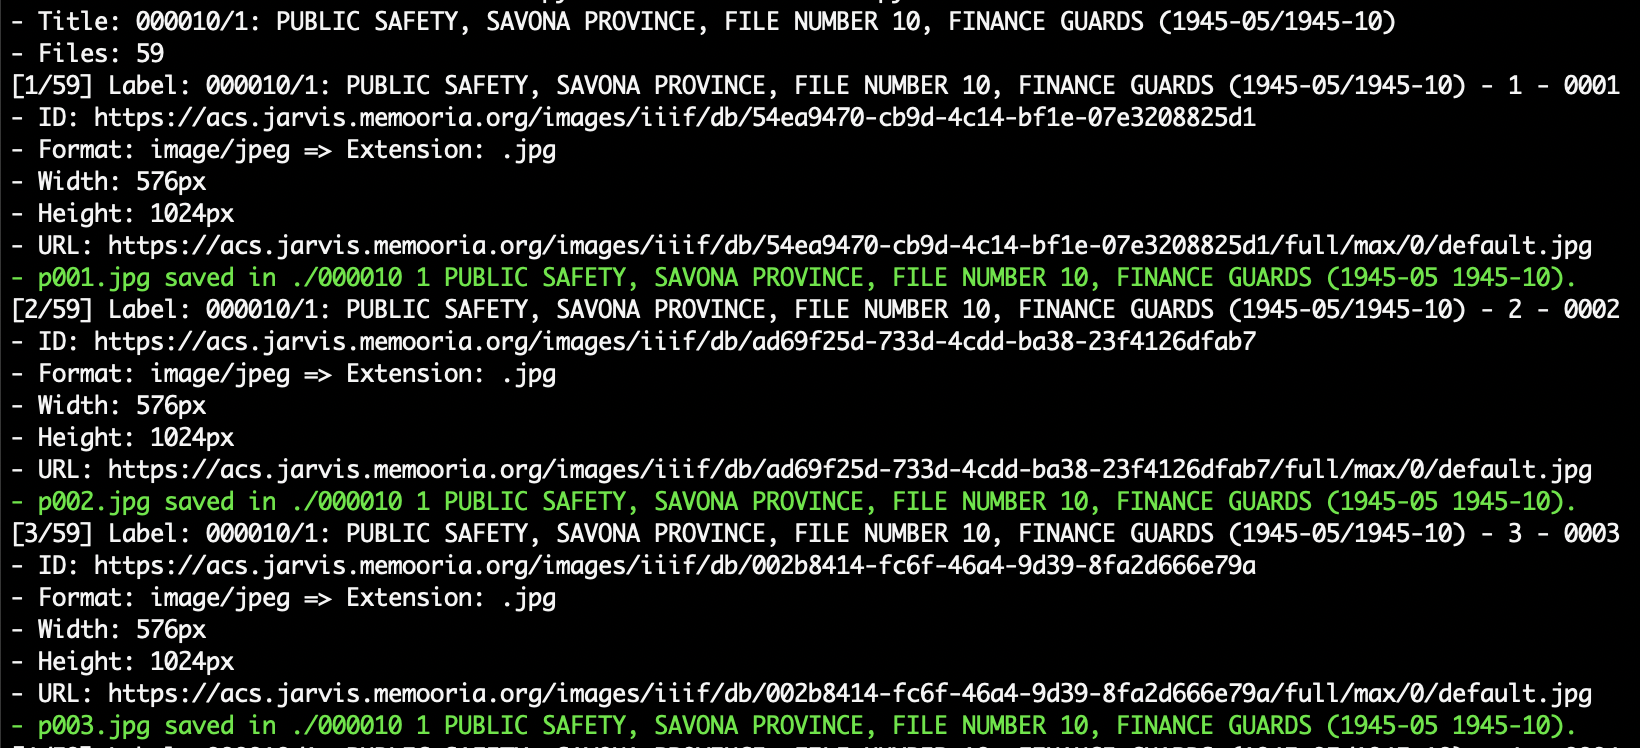
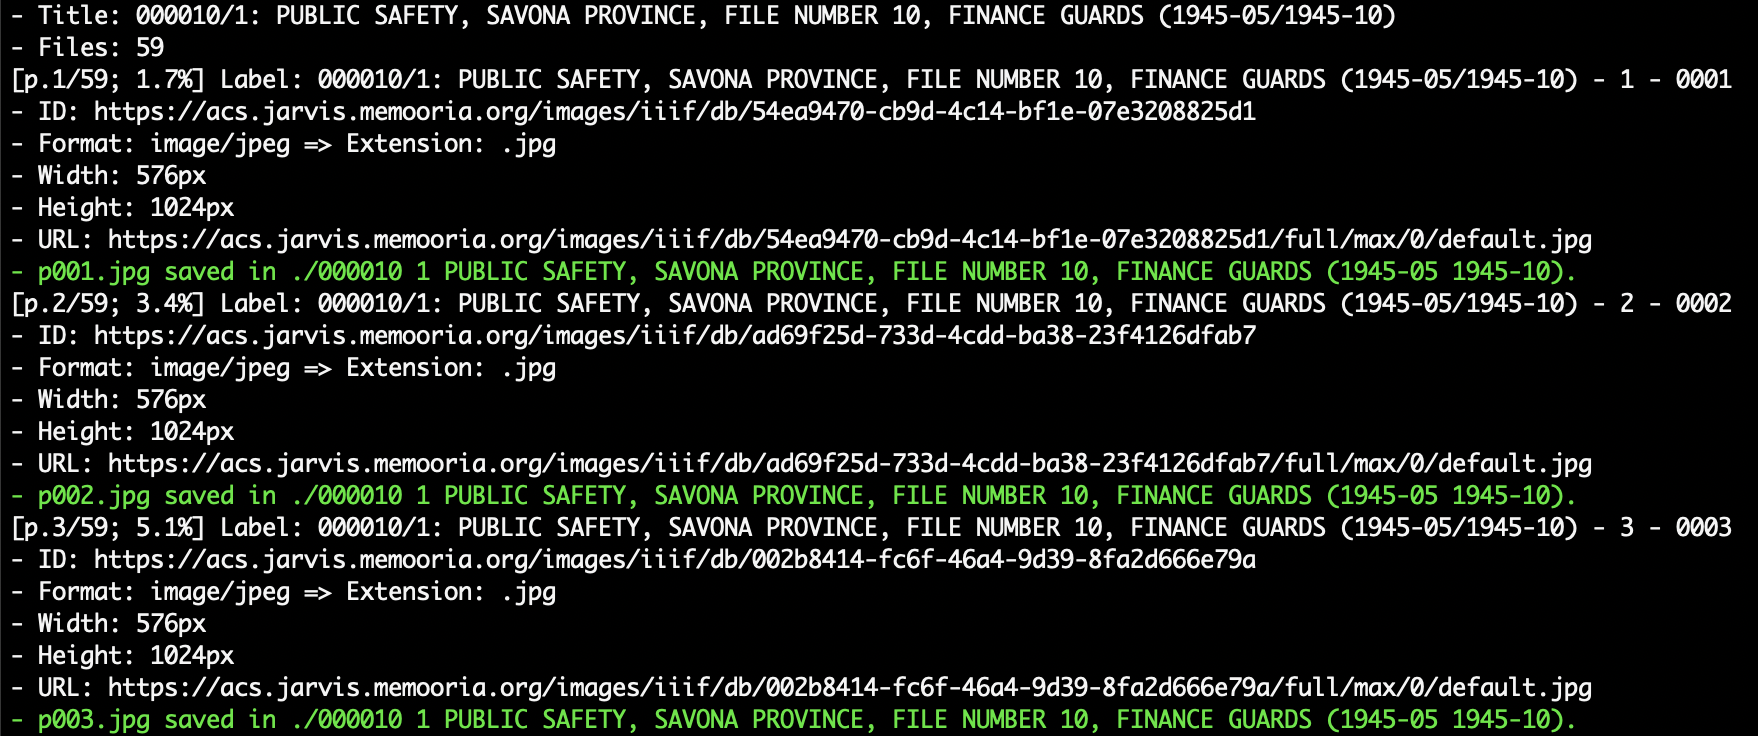
Added page range feature

Changed region(s): [[0.0, 0.0, 0.9951, 1.0]]

diff --git a/iiif.py b/iiif.py
@@ -3,7 +3,8 @@ import os
 from shutil import rmtree
 from urllib.request import urlopen, Request
 
-# TODO: download one specific page
+# Doc: https://iiif.io/api/image/3.0/
+
 # TODO: read manifest from url (don't download)
 
 def open_url(u):
@@ -91,10 +92,20 @@ def read_iiif_json(d):
 
     return title, labels, iiif_ids, iiif_formats, iiif_w, iiif_h
 
-def download_iiif_files(iiif_ids, labels, iiif_formats, iiif_w, iiif_h, subdir):
+def download_iiif_files(iiif_ids, labels, iiif_formats, iiif_w, iiif_h, subdir, firstpage = 1, lastpage = -1):
+    # Create sub-array
+    totpages = len(iiif_ids)
+    if(firstpage != 1 or lastpage != -1):
+        iiif_ids = iiif_ids[firstpage-1:]
+        iiif_ids = iiif_ids[:lastpage-firstpage+1]
+        print("- Downloading pages " + str(firstpage) + "-" + str(lastpage) + " from a total of " + str(totpages))
+
+    # Loop over each id
     some_error = False
     for cnt, iiif_id in enumerate(iiif_ids):
-        print('[' + str(cnt + 1) + '/' + str(len(iiif_ids)) + '] Label: ' + labels[cnt])
+        percentage = round((cnt + 1) / len(iiif_ids) * 100, 1)
+        cnt = cnt + firstpage - 1
+        print('[p.' + str(cnt + 1) + '/' + str(totpages) + '; '  + str(percentage) + '%] Label: ' + labels[cnt])
         print('- ID: ' + iiif_id)
         ext = get_extension(iiif_formats[cnt])
         print('- Format: ' + iiif_formats[cnt] + ' => Extension: ' + ext)
@@ -108,10 +119,10 @@ def download_iiif_files(iiif_ids, labels, iiif_formats, iiif_w, iiif_h, subdir):
         else:
             print('\033[91m' + '- Error!' + '\033[0m')
             some_error = True
+
     return some_error
 
-def download_iiif_files_from_manifest(manifest_name, maindir):
-    # Doc: https://iiif.io/api/image/3.0/
+def download_iiif_files_from_manifest(manifest_name, maindir, firstpage = 1, lastpage = -1):
     with open(manifest_name) as f:
         d = json.load(f)
 
@@ -129,7 +140,7 @@ def download_iiif_files_from_manifest(manifest_name, maindir):
     os.mkdir(subdir)
 
     # Download images from url
-    some_error = download_iiif_files(iiif_ids, labels, iiif_formats, iiif_w, iiif_h, subdir)
+    some_error = download_iiif_files(iiif_ids, labels, iiif_formats, iiif_w, iiif_h, subdir, firstpage, lastpage)
 
     # Rename directory if something was wrong
     if(some_error):

diff --git a/iiif_downloader.py b/iiif_downloader.py
@@ -1,14 +1,31 @@
-import iiif 
+import iiif
+from re import match 
 import argparse
+
+def get_pages(pages):
+  if(pages != 'all'):
+    # Numbers > 0 separated by -
+    pattern = r'^(?!0-0)([1-9]\d*)-([1-9]\d*)$'
+    if(match(pattern, pages)):
+      firstpage, lastpage = map(int, pages.split('-'))
+      if(lastpage < firstpage):
+        raise Exception("Invalid page range (invalid pages)")
+    else:
+      raise Exception("Invalid page range (invalid format)") 
+  else:
+    firstpage, lastpage = 1, -1
+  return firstpage, lastpage
 
 parser = argparse.ArgumentParser(description="IIIF Downloader", formatter_class=argparse.ArgumentDefaultsHelpFormatter)
 parser.add_argument("-m", "--manifest", default='manifest', help="Manifest name")
 parser.add_argument("-d", "--directory", default='.', help="Directory")
+parser.add_argument("-p", "--pages", default='all', help="Page range (e.g. 3-27)")
 
 args = parser.parse_args()
 config = vars(args)
 
 main_dir = config['directory']
 manifest_name = config['manifest']
+firstpage, lastpage = get_pages(config['pages'])
 
-iiif.download_iiif_files_from_manifest(manifest_name, main_dir)
+iiif.download_iiif_files_from_manifest(manifest_name, main_dir, firstpage, lastpage)

diff --git a/README.md b/README.md
@@ -11,7 +11,7 @@ This script needs only urllib!
 You run it as:
 
 ```
-python3 iiif_downloader.py -m manifest [-d directory]
+python3 iiif_downloader.py -m manifest [-d directory] [-p first-last]
 ```
 
 And that's all.
